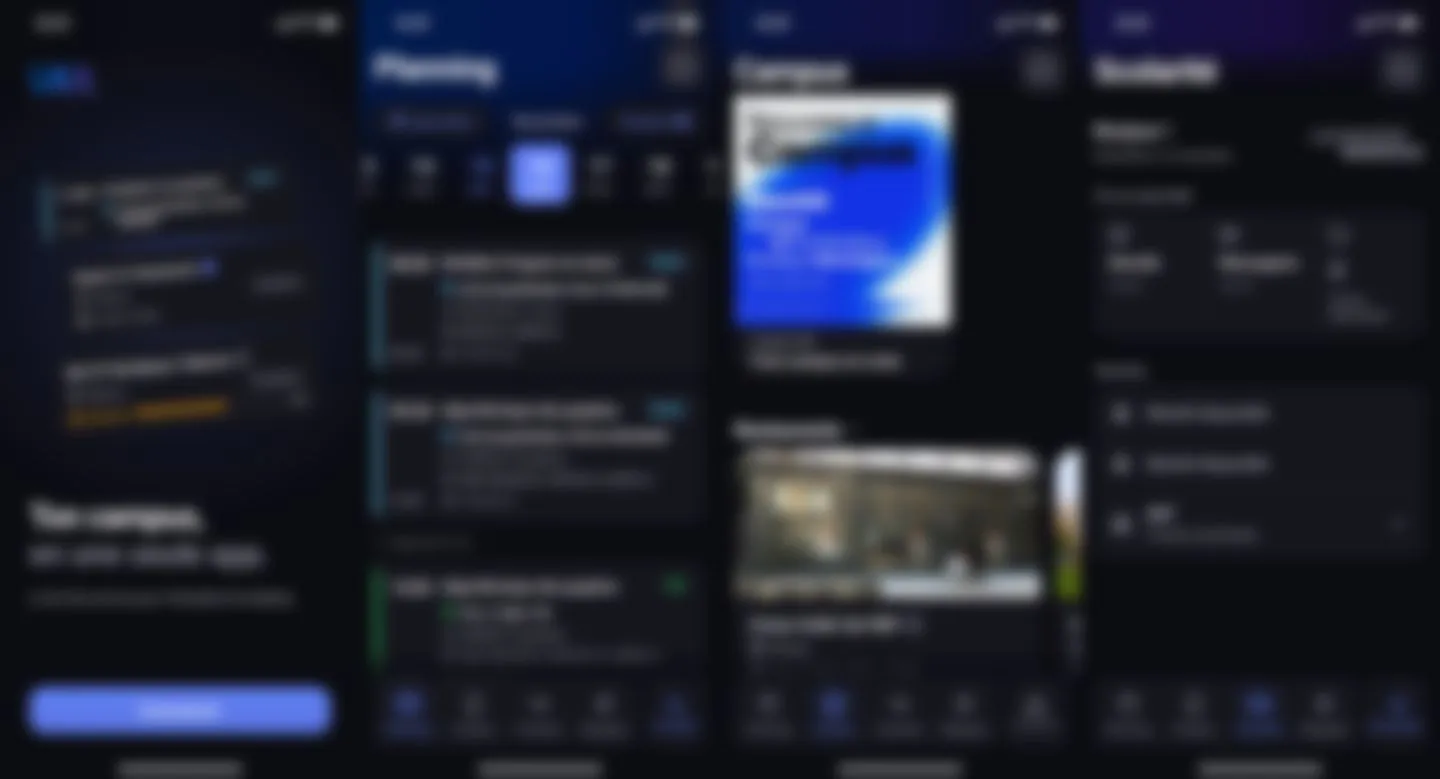
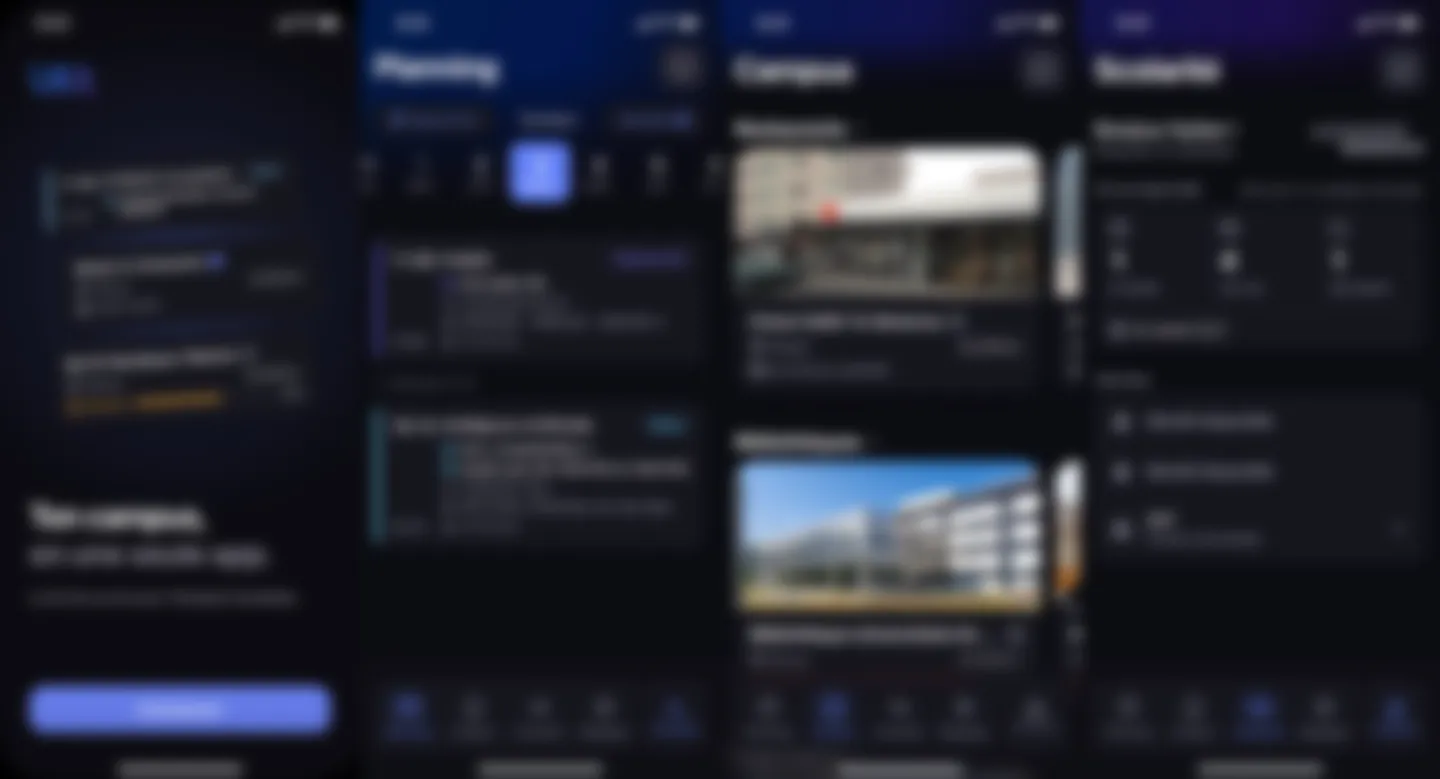
feat: écrans de UKit pris sur iPhone, Campus sur les restos et les BU
Captures iOS de Kylian à la place de celles de l'émulateur (la police d'Android ne détonne plus dans l'iPhone) ; barres d'état uniformisées, noms d'enseignants et intitulé de devoir floutés ; légendes et rectangles relus.

diff --git a/index.html b/index.html
@@ -95,14 +95,14 @@
           <ol class="chapters">
             <li class="chapter chapter--lead" data-at="-1,0.1"><p>Your campus, in one app. The survival kit for students in Bordeaux.</p></li>
             <li class="chapter" data-at="0.1,0.35"><h3>Timetable</h3>
-              <p class="callout" data-rect="1,0.04,0.304,0.955,0.484">Every class of the week, readable offline</p>
-              <p class="callout callout--more" data-rect="1,0.685,0.135,0.948,0.177">By day or by week</p></li>
+              <p class="callout" data-rect="1,0.041,0.304,0.954,0.462">Every class of the week, readable offline</p>
+              <p class="callout callout--more" data-rect="1,0.676,0.135,0.948,0.173">By day or by week</p></li>
             <li class="chapter" data-at="0.35,0.67"><h3>Campus</h3>
-              <p class="callout" data-rect="2,0.041,0.122,0.639,0.484">Campus news, published by the team</p>
-              <p class="callout callout--more" data-rect="2,0.041,0.578,0.889,0.87">Canteens nearby, with their hours</p></li>
+              <p class="callout" data-rect="2,0.041,0.19,0.889,0.501">Canteens nearby, and when they open</p>
+              <p class="callout callout--more" data-rect="2,0.041,0.592,0.889,0.866">Libraries, and how far they are</p></li>
             <li class="chapter" data-at="0.67,0.88"><h3>Studies</h3>
-              <p class="callout" data-rect="3,0.046,0.272,0.352,0.432">Moodle, one tap away</p>
-              <p class="callout callout--more" data-rect="3,0.352,0.272,0.954,0.432">University mail and documents</p></li>
+              <p class="callout" data-rect="3,0.046,0.265,0.352,0.39">What is due on Moodle</p>
+              <p class="callout callout--more" data-rect="3,0.352,0.265,0.954,0.39">University mail and documents</p></li>
             <li class="chapter chapter--facts" data-at="0.88,2">
               <dl class="facts">
                 <div><dt>Platforms</dt><dd>iOS, Android</dd></div>
